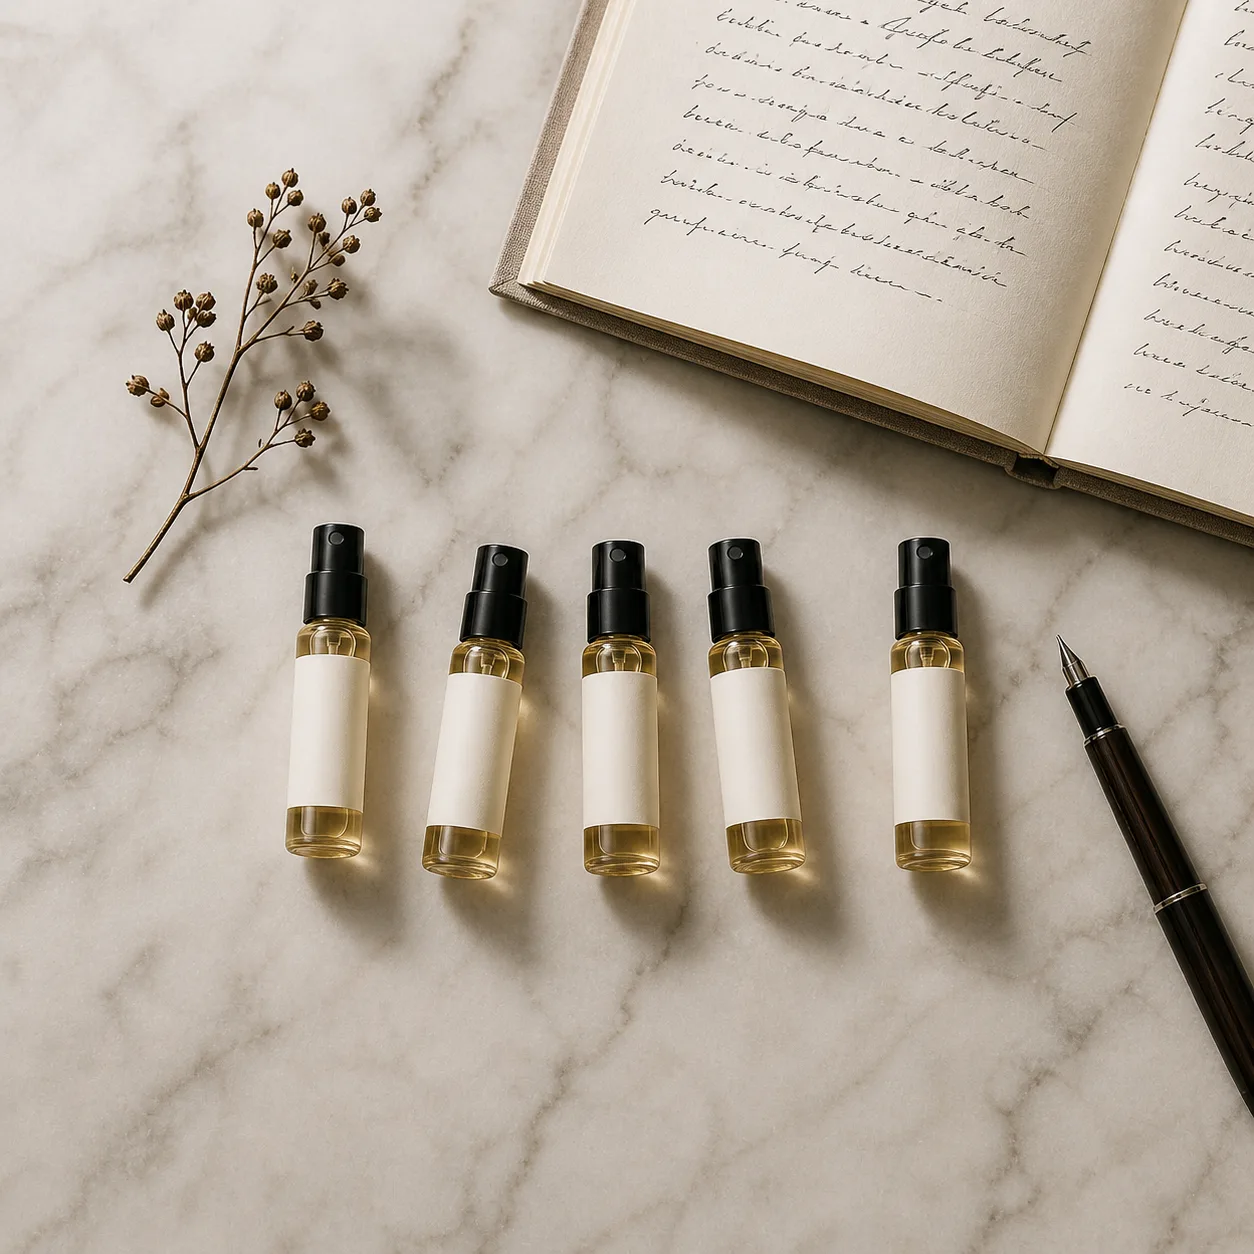
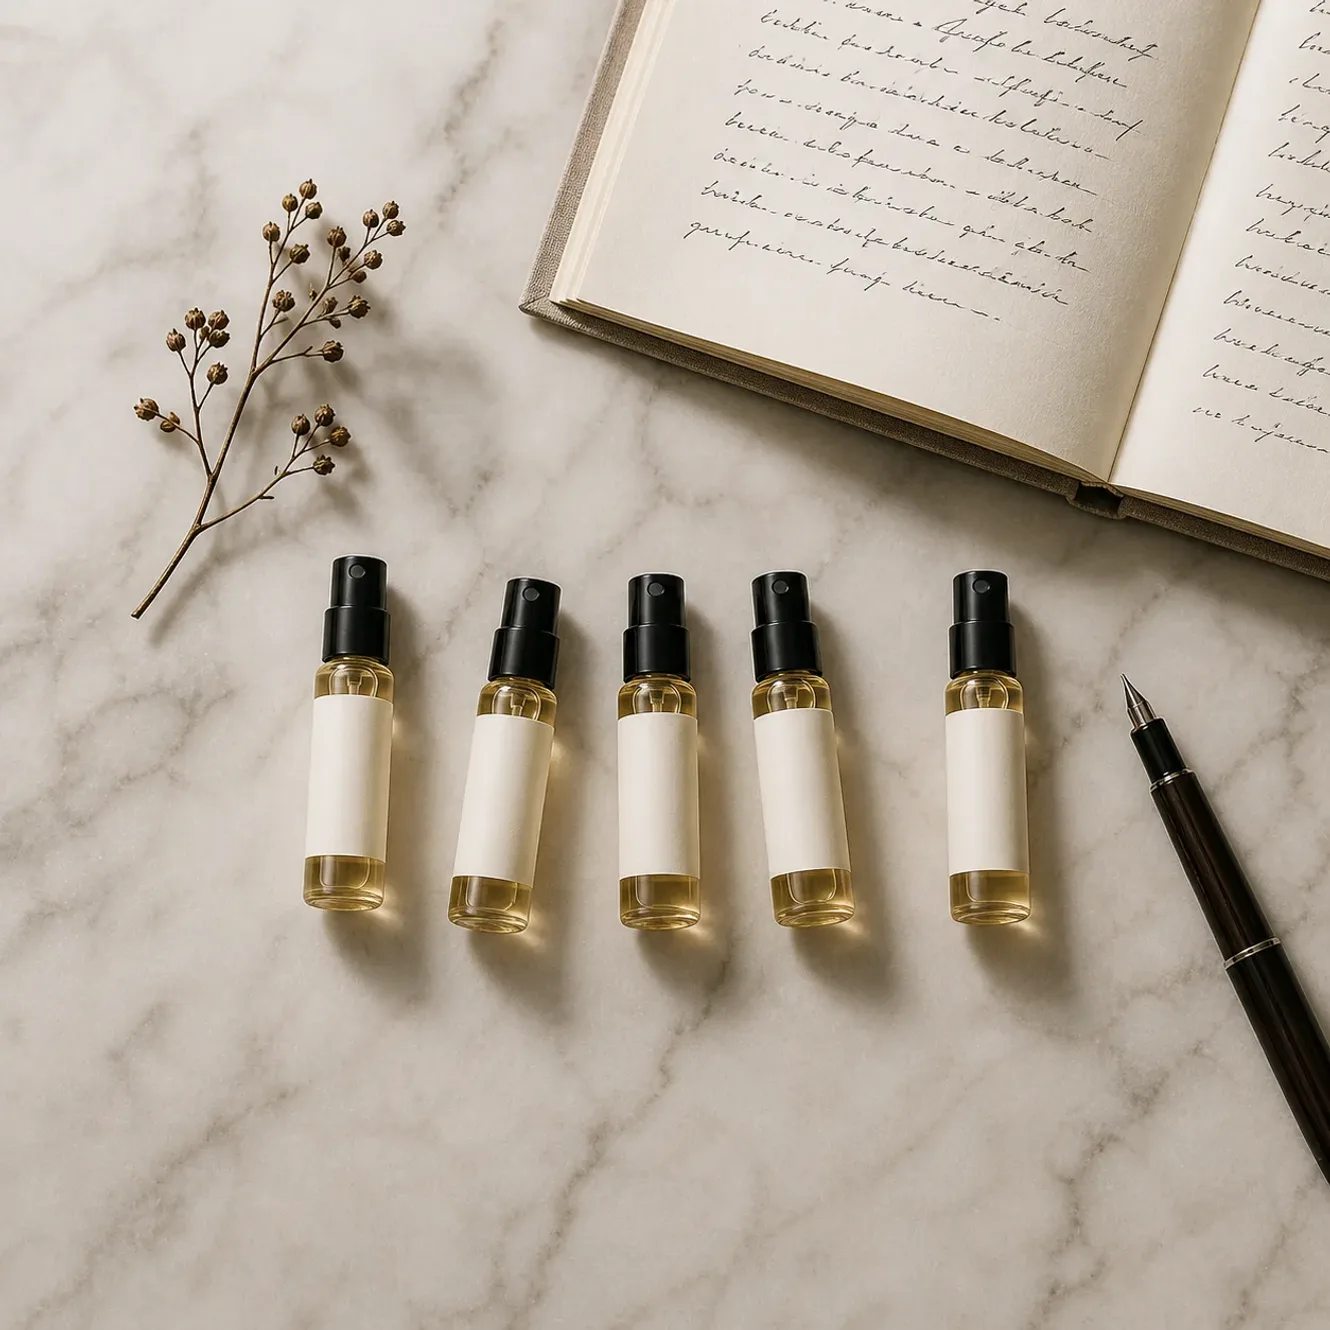
Tighten CSP and serve responsive Discovery CTA image
Best Practices (was 96 → expect 100):
- Add Content-Security-Policy with allowlists for our actual external
  origins: Supabase (REST + WebSocket), Google Fonts, Unsplash testimonial
  photos, exchangerate.host (FX rates). 'unsafe-inline' is retained for
  scripts and styles to avoid breaking the splash loader's IIFE and
  Tailwind's runtime style injection — tightening to nonces is a follow-up.

Performance (small win):
- Generate 800x800 mobile variant of discovery-cta.webp (45 KB) and
  rewrite the <img> as srcset/sizes so phones get the 45 KB file
  instead of the 114 KB 1330x1330. ~70 KB saved on every mobile load.
- Resized the original from 1254x1254 to 1330x1330 (=665px @2x retina,
  matches displayed size). Re-encoded at quality 82, dropping from
  137 KB to 114 KB.

diff --git a/src/components/home/DiscoveryCTA.tsx b/src/components/home/DiscoveryCTA.tsx
@@ -14,9 +14,11 @@ export function DiscoveryCTA() {
         <div className="aspect-square md:aspect-auto">
           <img
             src="/discovery-cta.webp"
+            srcSet="/discovery-cta-800.webp 800w, /discovery-cta.webp 1330w"
+            sizes="(max-width: 768px) 100vw, 50vw"
             alt={t('discoveryCta.title')}
-            width={1254}
-            height={1254}
+            width={1330}
+            height={1330}
             className="w-full h-full object-cover"
             loading="lazy"
             decoding="async"
